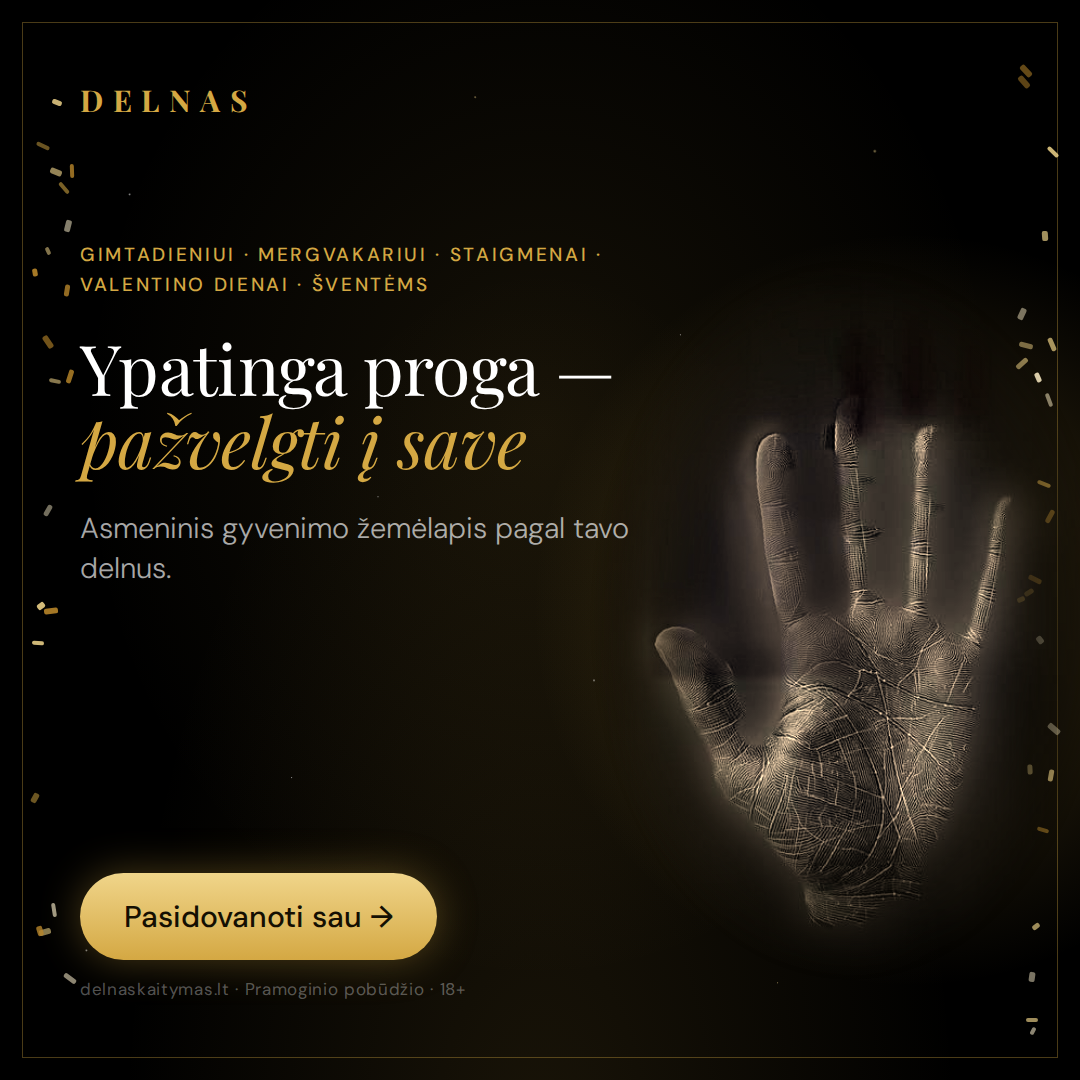
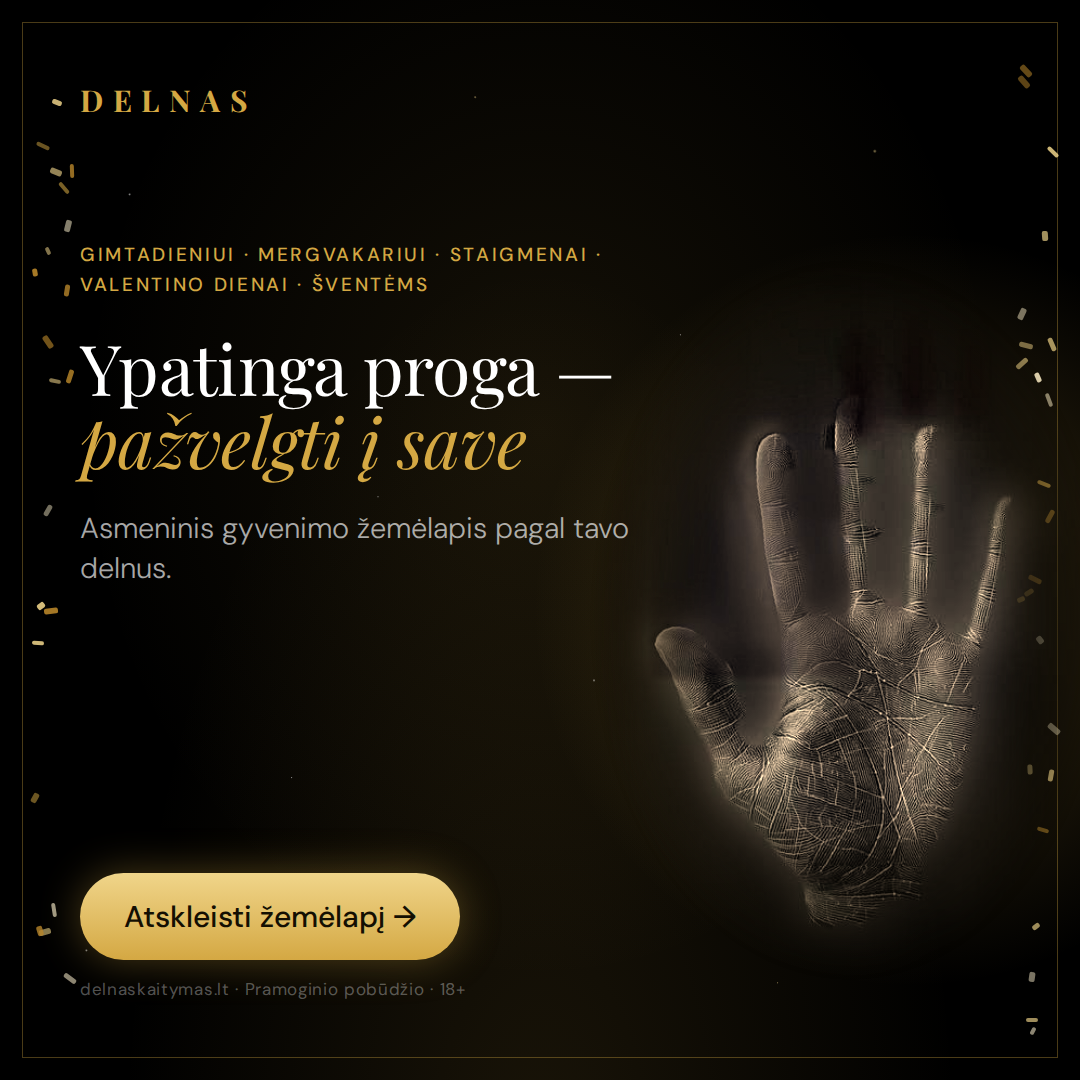
Reklamos: 31 — mygtukas „Atskleisti žemėlapį“ vietoj „Pasidovanoti sau“
Claude-Session: https://claude.ai/code/session_01SAS6jcXVwrehsNMXyhjzXP

Changed region(s): [[0.1222, 0.7944, 0.4278, 0.8861]]

diff --git a/reklamos/reklamos.html b/reklamos/reklamos.html
@@ -800,7 +800,7 @@
     <h1 style="font-size:70px"><span style="white-space:nowrap">Ypatinga proga —</span><br><em>pažvelgti į save</em></h1>
     <p class="sub" style="font-size:29px">Asmeninis gyvenimo žemėlapis pagal tavo delnus.</p>
   </div>
-  <div class="row" style="margin-top:auto"><div class="cta">Pasidovanoti sau →</div></div>
+  <div class="row" style="margin-top:auto"><div class="cta">Atskleisti žemėlapį →</div></div>
   <div class="fine" style="margin-top:18px">delnaskaitymas.lt · Pramoginio pobūdžio · 18+</div>
 </div>
 </div>
